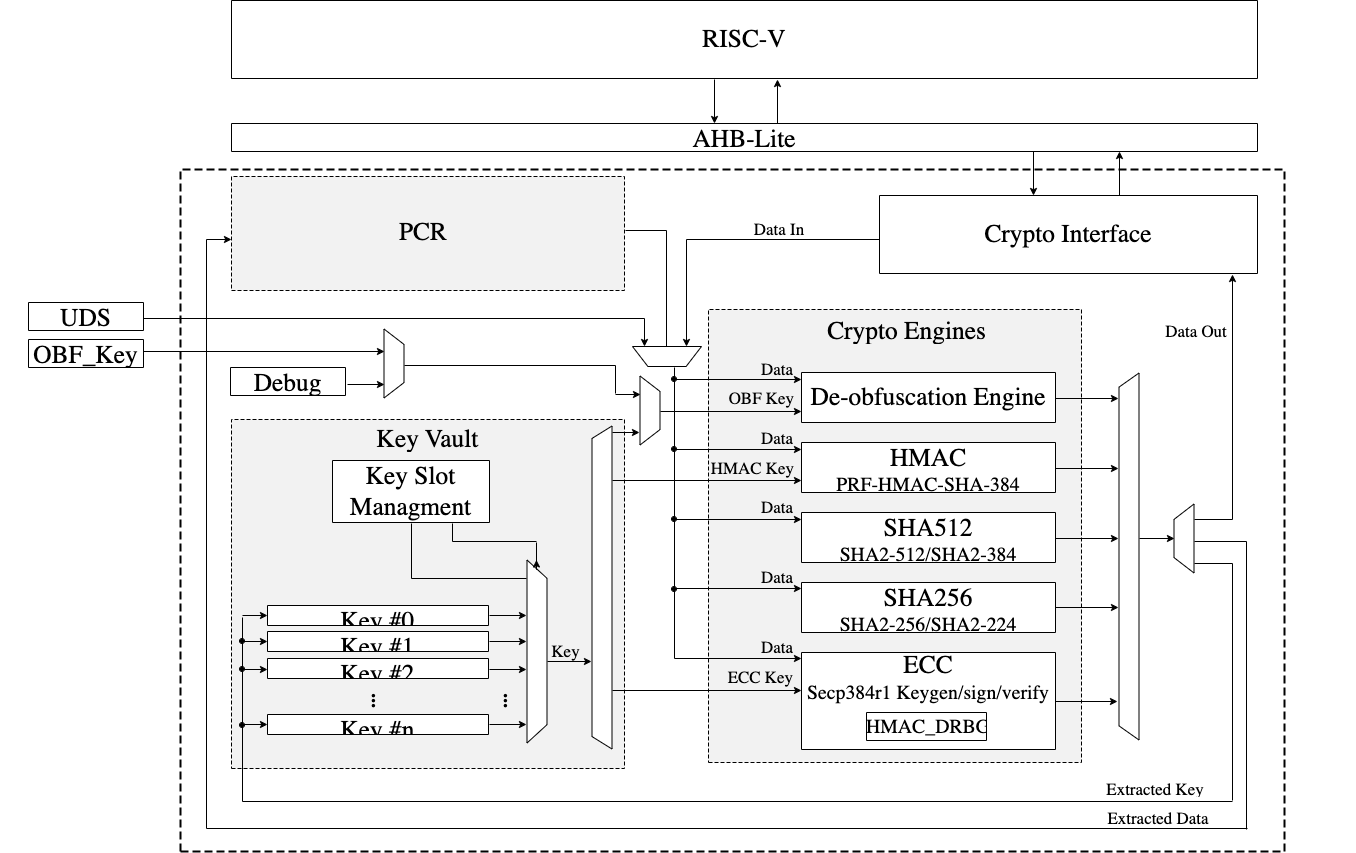
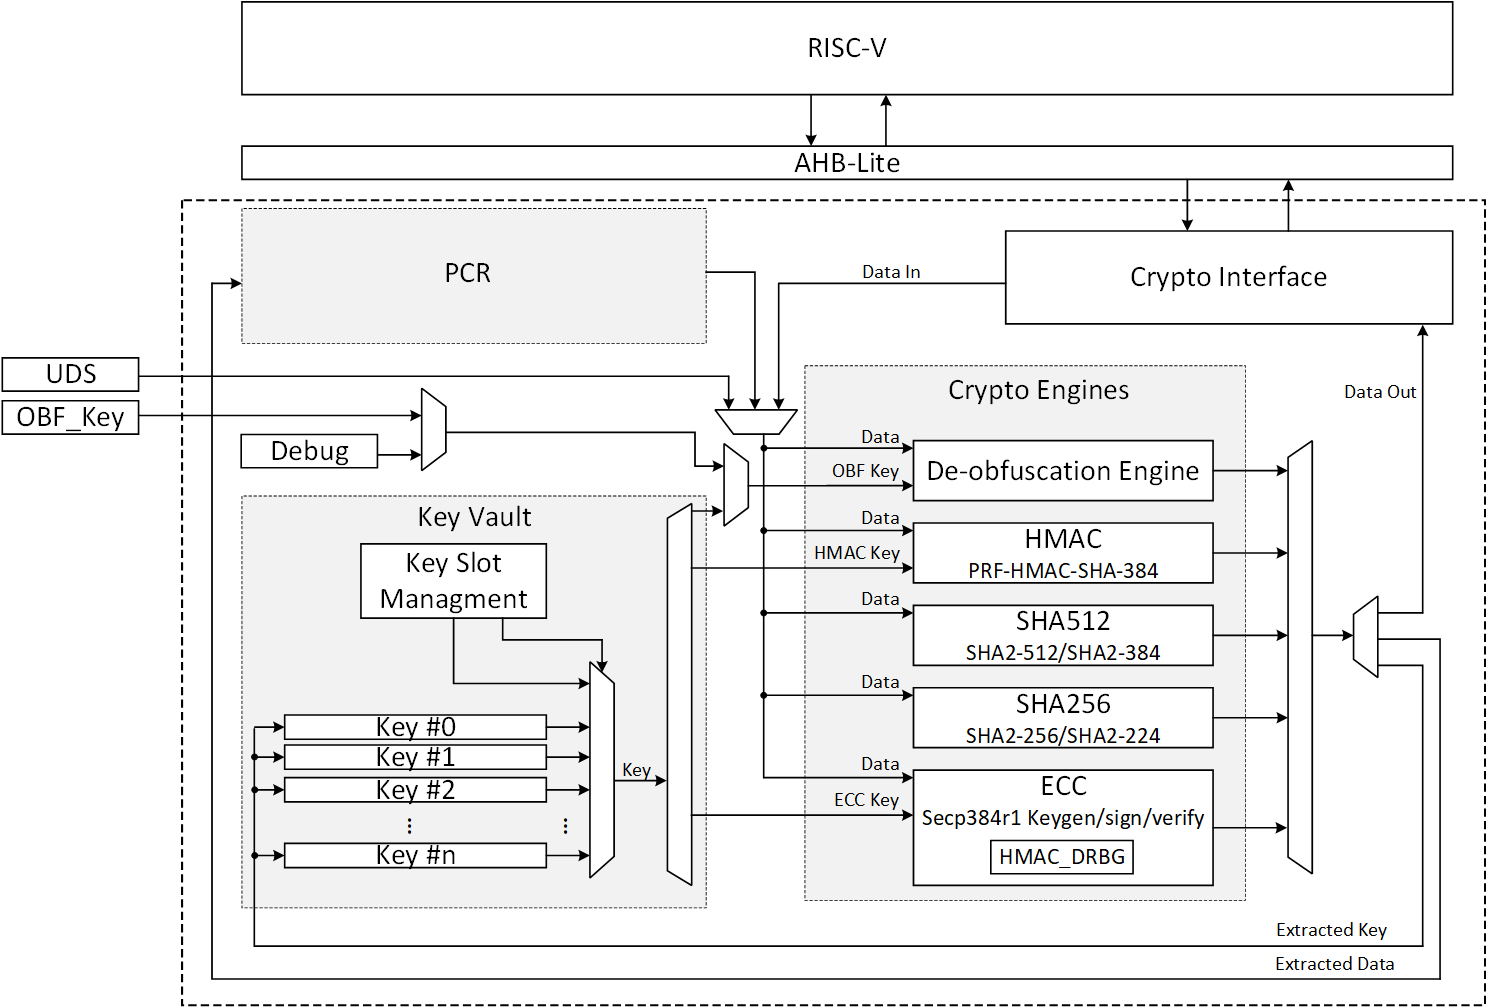
Clean up document TODOs (#345)
* Typo fix

* Resolve several TODO's by adding correct links

* Remove mailbox regs; clarify table of interrupt vectors

* Point to internal-regs in HW spec since describing Caliptra internal functionality

* Regenerate image from source to fix text

* Remove Fig. 18 TODO after updating img file

* Update heading link to eTRNG API section and remove TODO

* Fix syntax error on internal heading link

* Grammar: present tense

* Remove loaded 'official' term

* Caliptra RTL -> 'the RTL', better link to caliptra_defines.h

* More concise, informative verbiage on link to mbox_csr

* Full link name to mbox_csr for clarity

diff --git a/docs/CaliptraHardwareSpecification.md b/docs/CaliptraHardwareSpecification.md
@@ -143,7 +143,8 @@ Software and local interrupts are not implemented in the first generation of Cal
 
 #### Non-maskable interrupts
 
-<TODO> 0p8 describe a register bank that may be used to dynamically configure the NMI reset vector. (i.e., where the PC resets to).
+Caliptra's RISC-V processor has access to an internal register that allows configuration of the NMI vector. When an NMI occurs, the program counter jumps to the address indicated by the contents of this register.
+For more information, see [NMI Vector](https://chipsalliance.github.io/caliptra-rtl/main/internal-regs/?p=clp.soc_ifc_reg.internal_nmi_vector).
 
 #### External interrupts
 
@@ -153,7 +154,7 @@ Errors and notifications are allocated as interrupt events for each component, w
 
 Notification interrupts are used to alert the processor of normal operation activity, such as completion of requested operations or arrival of SoC requests through the shared interface.
 
-Vector 0 is reserved by the RISC-V processor and may not be used, so vector assignment begins with Vector 1. Bit 0 of the interrupt port to the processor corresponds with Vector 1.
+Vector 0 is reserved by the RISC-V processor and may not be used, so vector assignment begins with Vector 1. Bit 0 of the interrupt port to the processor corresponds with Vector 1. The following table shows assignment of interrupt vectors to the corresponding IP block. The illustrated interrupt priority assignment is only an example, and does not correspond with actual priorities assigned in the final Caliptra firmware. These interrupt priorities are used in the validation firmware that tests the RTL, and are defined in [caliptra_defines.h](https://github.com/chipsalliance/caliptra-rtl/blob/main/src/integration/test_suites/includes/caliptra_defines.h).
 
 | IP/Peripheral                                       | Interrupt vector | Interrupt priority example<br> (Increasing, Max 15) |
 | :-------------------------------------------------- | :--------------- | :---------------------------------------------- |
@@ -396,38 +397,8 @@ The UART block architecture inputs and outputs are described in the following ta
 
 ## SoC mailbox
 
-For more information on the mailbox protocol, see [Mailbox](https://github.com/chipsalliance/caliptra-rtl/blob/main/docs/Caliptra_rtl.md#mailbox) in the Caliptra Integration Specification. TODO: Fix this!
+For more information on the mailbox protocol, see [Mailbox](https://github.com/chipsalliance/caliptra-rtl/blob/main/docs/CaliptraIntegrationSpecification.md#mailbox) in the Caliptra Integration Specification. Mailbox registers accessible to the Caliptra microcontroller are defined in [internal-regs/mbox_csr](https://chipsalliance.github.io/caliptra-rtl/main/internal-regs/?p=clp.mbox_csr).
 
-The following table describes the mailbox control registers.
-
-| Control register          | Start address     | Description        |
-| :------------------------ | :---------------- | :----------------- |
-| MBOX_LOCK                 | 0x30020000        | Mailbox lock register for mailbox access. Reading 0 sets the lock. |
-| MBOX_USER                 | 0x30020004        | Stores the user that locked the mailbox.|
-| MBOX_CMD                  | 0x30020008        | Command requested for data in mailbox. |
-| MBOX_DLEN                 | 0x3002000c        | Data length for mailbox access. |
-| MBOX_DATAIN               | 0x30020010        | Data in register. Writes the next data to mailbox. |
-| MBOX_DATAOUT              | 0x30020010        | Data out register. Reads the next data from mailbox.|
-| MBOX_EXECUTE              | 0x30020018        | Mailbox execute register indicates to the receiver that the sender is done. |
-| MBOX_STATUS               | 0x3002001c        | Status of the mailbox command: <br> CMD_BUSY - 2’b00 – Indicates the requested command is still in progress <br> DATA_READY - 2’b01 – Indicates the return data is in the mailbox for the requested command <br> CMD_COMPLETE- 2’b10 – Indicates the successful completion of the requested command <br> CMD_FAILURE- 2’b11 – Indicates the requested command failed |
-| HW_ERROR_FATAL            | 0x30030000        | Indicates fatal hardware error. |
-| HW_ERROR_NON_FATAL        | 0x30030004        | Indicates non-fatal hardware error. |
-| FW_ERROR_FATAL            | 0x30030008        | Indicates fatal firmware error. |
-| FW_ERROR_NON_FATAL        | 0x3003000c        | Indicates non-fatal firmware error. |
-| HW_ERROR_ENC              | 0x30030010        | Encoded error value for hardware errors. |
-| FW_ERROR_ENC              | 0x30030014        | Encoded error value for firmware errors. |
-| BOOT_STATUS               | 0x30030018        | Reports the boot status. |
-| FLOW_STATUS               | 0x3003001c        | Reports the status of the firmware flows. |
-| GENERIC_INPUT_WIRES       | 0x30030024        | Generic input wires connected to the SoC interface. |
-| GENERIC_OUTPUT_WIRES      | 0x3003002c        | Generic output wires connected to the SoC interface. |
-| KEY_MANIFEST_PK_HASH      | 0x300302b0        | |
-| KEY_MANIFEST_PK_HASH_MASK | 0x30030370        | |
-| KEY_MANIFEST_SVN          | 0x30030374        | |
-| BOOT_LOADER_SVN           | 0x30030384        | |
-| RUNTIME_SVN               | 0x30030388        | |
-| ANTI_ROLLBACK_DISABLE     | 0x3003038c        | |
-| IEEE_IDEVID_CERT_CHAIN    | 0x30030390        | |
-| FUSE_DONE                 | 0x300303f0        | |
 
 ## Security state
 
@@ -526,7 +497,7 @@ Caliptra implements a true random number generator (TRNG) block for local use mo
 
 This TRNG block is a combination of entropy source and CSRNG implementations. For information, see the [ENTROPY\_SRC HWIP Technical Specification](https://opentitan.org/book/hw/ip/entropy_src/index.html) and the [CSRNG HWIP Technical Specification](https://opentitan.org/book/hw/ip/csrng/). The core code (see [entropy source](https://github.com/lowRISC/opentitan/tree/master/hw/ip/entropy_src) and [csrng](https://github.com/lowRISC/opentitan/tree/master/hw/ip/csrng)) is reused from here but the interface to the module is changed to AHB-lite. This design provides an interface to an external physical random noise generator. This is also referred to as a physical true random number generator (PTRNG). The PTRNG external source is a physical true random noise source. A noise source and its relation to an entropy source are defined by [SP 800-90B](https://csrc.nist.gov/publications/detail/sp/800-90b/final).
 
-The block is instantiated based on a design parameter chosen at integration time. This is to provide options for SoC to reuse an existing TRNG to build an optimized SoC design. For the optimized scenarios, SoC needs to follow the TODO: heading link in markdown.
+The block is instantiated based on a design parameter chosen at integration time. This is to provide options for SoC to reuse an existing TRNG to build an optimized SoC design. For the optimized scenarios, SoC needs to follow the [External-TRNG REQ HW API](#External-TRNG-REQ-HW-API).
 
 The following figure shows the integrated TRNG block.
 
@@ -706,7 +677,7 @@ The architecture of Caliptra cryptographic subsystem includes the following comp
 
 The high-level architecture of Caliptra cryptographic subsystem is shown in the following figure.
 
-*Figure 18: Caliptra cryptographic subsystem TODO: fix this image*
+*Figure 18: Caliptra cryptographic subsystem*
 
 ![](./images/crypto_subsystem.png)
 
@@ -1330,10 +1301,6 @@ In practice, observing a t-value greater than a specific threshold (mainly 4.5) 
 *Figure 40: TVLA threshold as a function of the number of samples per trace*
 
 ![](./images/TVLA_threshold.png)
-
-##### Keygen TVLA
-
-TODO: provide content for this section
 
 
 ##### Signing TVLA

diff --git a/docs/CaliptraIntegrationSpecification.md b/docs/CaliptraIntegrationSpecification.md
@@ -293,7 +293,7 @@ When a mailbox is populated by the SoC, initiation of the operation by writing t
 
 When a mailbox is populated by the microcontroller, an output wire to the SoC indicates that a command is available in the mailbox. The SoC is responsible for reading from and responding to the command.
 
-Mailboxes are generic data-passing structures with a specific protocol that defines legal operations. This protocol for writing to and reading from the mailbox is enforced in hardware as described in the [Caliptra mailbox errors](#caliptra-mailbox-errors) section. How the command and data are interpreted by the microcontroller and SoC are not enforced in this specification. \
+Mailboxes are generic data-passing structures with a specific protocol that defines legal operations. This protocol for writing to and reading from the mailbox is enforced in hardware as described in the [Caliptra mailbox errors](#caliptra-mailbox-errors) section. How the command and data are interpreted by the microcontroller and SoC are not enforced in this specification.
 
 ## Sender Protocol
 
